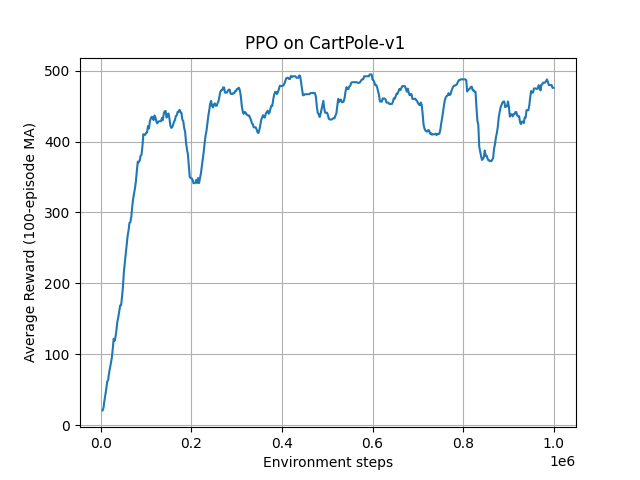
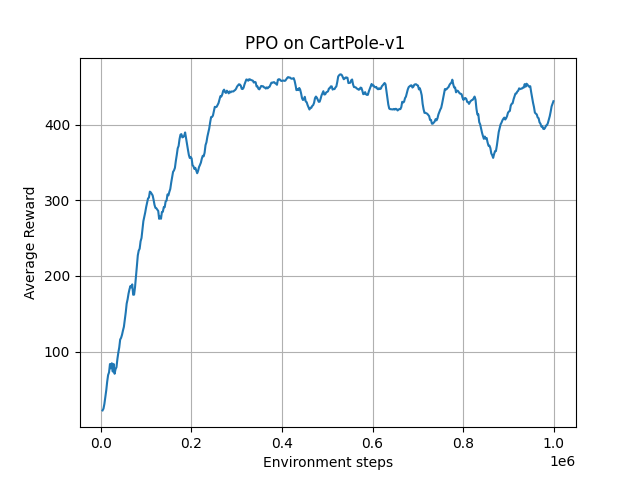
final update

diff --git a/ppo.py b/ppo.py
@@ -48,7 +48,11 @@ class ActorCritic(nn.Module):
 def gae(rew, val, dones, next_v, gamma=0.99, lam=0.95):
     """Generalised Advantage Estimation (GAE‑λ)."""
     adv, g = [], 0.0
+    
+    # Append next value to bootstrap the final step
     val = np.append(val, next_v)
+    
+    # Work backwards from end of rollout
     for t in reversed(range(len(rew))):
         delta = rew[t] + gamma * val[t + 1] * (1 - dones[t]) - val[t]
         g = delta + gamma * lam * (1 - dones[t]) * g
@@ -65,6 +69,8 @@ def ppo_update(model, opt, clip_eps, obs, act, logp_old, ret, adv,
     logp_old = torch.tensor(logp_old, dtype=torch.float32, device=device)
     ret = torch.tensor(ret, dtype=torch.float32, device=device)
     adv = torch.tensor(adv, dtype=torch.float32, device=device)
+    
+    # Normalize advantage to stabilize training
     adv = (adv - adv.mean()) / (adv.std() + 1e-8)
 
     n = obs.size(0)
@@ -74,9 +80,12 @@ def ppo_update(model, opt, clip_eps, obs, act, logp_old, ret, adv,
             b = idx[st:st + batch]
             b_obs, b_act = obs[b], act[b]
             b_old, b_ret, b_adv = logp_old[b], ret[b], adv[b]
-
+            
+            # Evaluate current policy
             logp, ent, v = model.evaluate(b_obs, b_act)
             ratio = torch.exp(logp - b_old)
+            
+            # PPO clipped surrogate objective
             surr1 = ratio * b_adv
             surr2 = torch.clamp(ratio, 1 - clip_eps, 1 + clip_eps) * b_adv
             pi_loss = -torch.min(surr1, surr2).mean()
@@ -99,7 +108,7 @@ def train(seed: int = 42,
           batch: int = 64,
           gamma: float = 0.99,
           lam: float = 0.95,
-          clip_eps: float = 0.1,
+          clip_eps: float = 0.2,
           actor_lr: float = 3e-4,
           critic_lr: float = 1e-4,
           hidden=(64, 64),
@@ -161,6 +170,7 @@ def train(seed: int = 42,
             ep_buf.append(ep_ret)
             ep_ret = 0.0
 
+        # When enough steps collected, perform PPO update
         if len(o_buf) == rollout:
             obs_t = torch.tensor(obs, dtype=torch.float32, device=device).unsqueeze(0)
             with torch.no_grad():
@@ -173,13 +183,14 @@ def train(seed: int = 42,
 
             o_buf.clear(); a_buf.clear(); logp_buf.clear();
             r_buf.clear(); d_buf.clear(); v_buf.clear()
-
+            
+            # Log performance once buffer of episodes filled
             if len(ep_buf) == ep_buf.maxlen:
                 avg_r = np.mean(ep_buf)
                 t_log.append(steps)
                 r_log.append(avg_r)
                 update_idx += 1
-                print(f"Run {run_id} | Upd {update_idx:4d} | Steps {steps:7d} | AvgR(100ep) {avg_r:6.2f}")
+                print(f"Run {run_id} | Upd {update_idx:4d} | Steps {steps:7d} | AvgR {avg_r:6.2f}")
 
     env.close()
 
@@ -188,7 +199,7 @@ def train(seed: int = 42,
         plt.figure()
         plt.plot(t_log, r_log)
         plt.xlabel('Environment steps')
-        plt.ylabel('Average Reward (100‑episode MA)')
+        plt.ylabel('Average Reward ')
         plt.title(f'PPO on {env_id} – Run {run_id}')
         plt.grid(True)
         fname = f'learning_curve_run{run_id}.png'
@@ -209,8 +220,9 @@ def run_multiple(repeats: int = 5, **train_kwargs):
                              **{k: v for k, v in train_kwargs.items() if k not in ('seed', 'run_id')})
         steps_list.append(t_log)
         curves.append(r_log)
-
-    # Align lengths (they should already match)
+        
+        
+    # Truncate to shortest curve length for averaging
     min_len = min(len(c) for c in curves)
     curves = [c[:min_len] for c in curves]
     steps_axis = steps_list[0][:min_len]
@@ -220,7 +232,7 @@ def run_multiple(repeats: int = 5, **train_kwargs):
     plt.figure()
     plt.plot(steps_axis, avg_curve)
     plt.xlabel('Environment steps')
-    plt.ylabel('Average Reward (100‑episode MA)')
+    plt.ylabel('Average Reward')
     plt.title(f'PPO on CartPole‑v1 ')
     plt.grid(True)
     plt.savefig('learning_curve_avg.png')
@@ -228,5 +240,4 @@ def run_multiple(repeats: int = 5, **train_kwargs):
 
 
 if __name__ == '__main__':
-    # Run 5 times (default) and plot averaged learning curve
-    run_multiple(repeats=1, total_steps=1_000_000)
+    run_multiple(repeats=5, total_steps=1_000_000)
